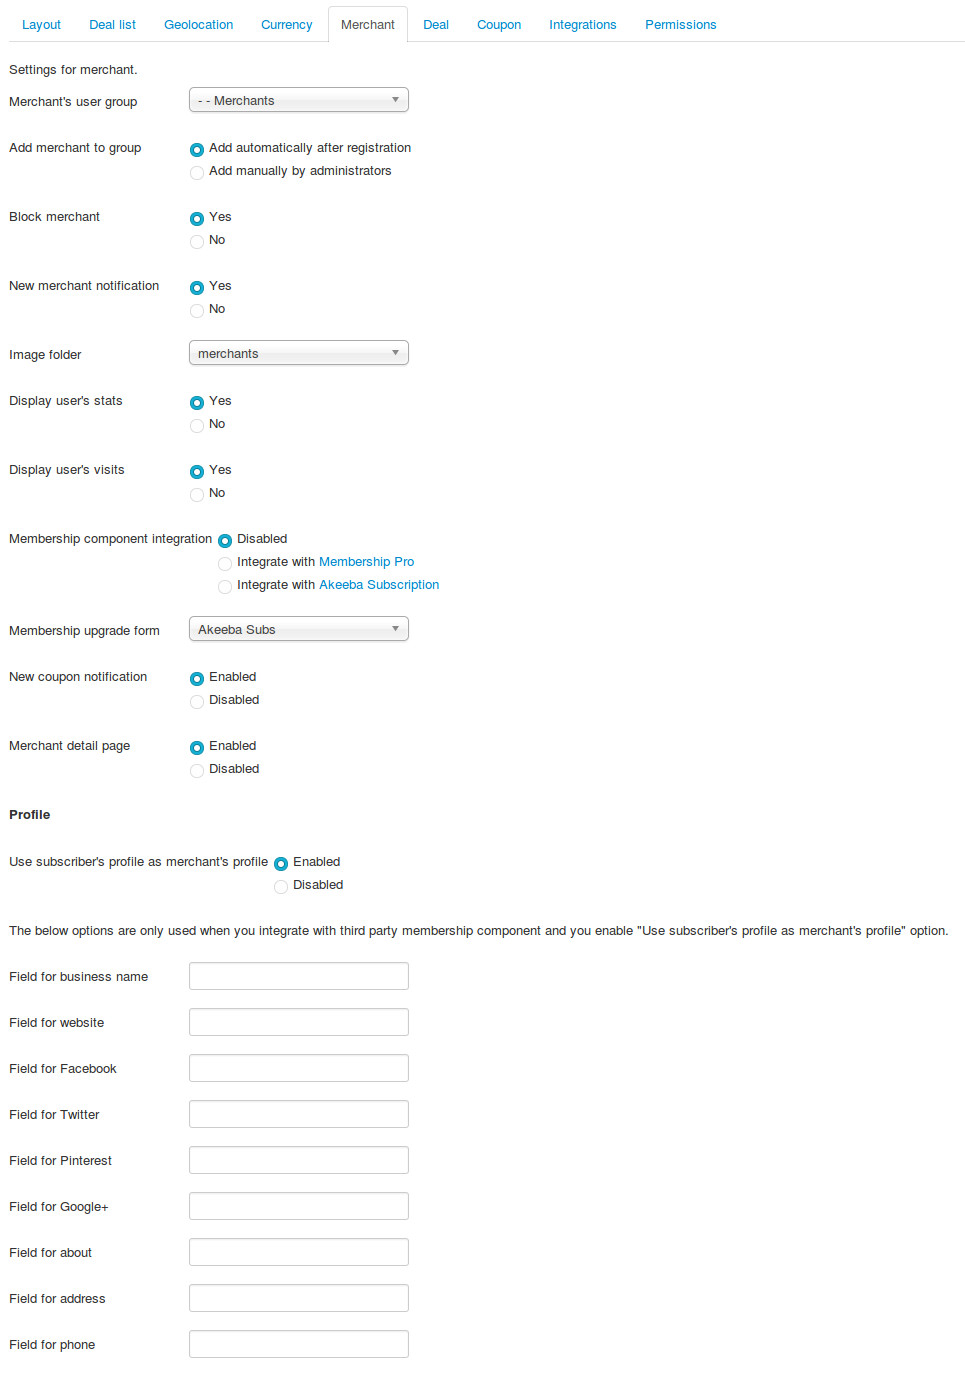
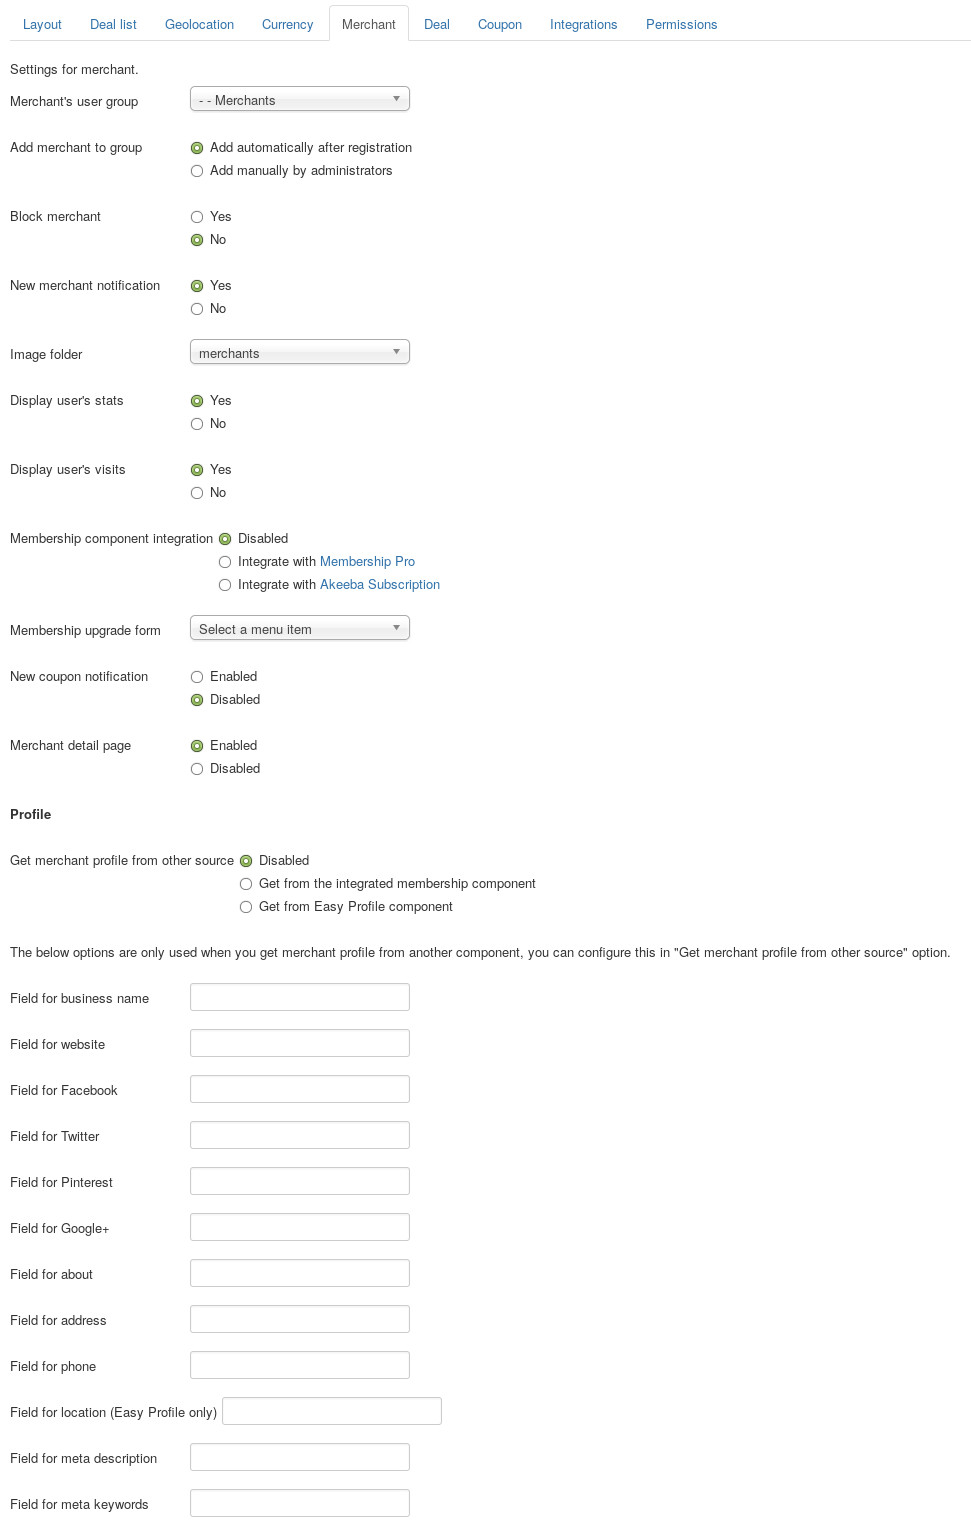
1.10.0

diff --git a/conf.py b/conf.py
@@ -44,16 +44,16 @@ master_doc = 'index'
 
 # General information about the project.
 project = u'CM Live Deal'
-copyright = u'2014-2015, CMExtension'
+copyright = u'2014-2016, CMExtension'
 
 # The version info for the project you're documenting, acts as replacement for
 # |version| and |release|, also used in various other places throughout the
 # built documents.
 #
 # The short X.Y version.
-version = '1.9.0'
+version = '1.10.0'
 # The full version, including alpha/beta/rc tags.
-release = '1.9.0-stable'
+release = '1.10.0-stable'
 
 # The language for content autogenerated by Sphinx. Refer to documentation
 # for a list of supported languages.

diff --git a/pages/configuration.rst b/pages/configuration.rst
@@ -84,6 +84,7 @@ Layout
 * **Map's default location**: The default location of Google Maps when the map is displayed, used in both front-end and back-end. You can click on the map or move the marker to the location you want.
 * **Date format**: Date format that is used in front-end.
 * **Time format**: Time format that is used in front-end.
+* **Google Maps API key**: If Google requires an API key to use Google Maps, you create a **Browser key** and enter it here. You can find more info about getting an API key `here <https://developers.google.com/maps/documentation/javascript/get-api-key>`_.
 
 Deal list
 ^^^^^^^^^
@@ -147,7 +148,14 @@ Merchant
 * **Membership upgrade form**: The menu item for upgrading membership. The link to this menu item is displayed in merchant's deal management page when merchant reaches his/her limit of created deal quantity. This option is only used if membership integration is enabled.
 * **New coupon notification**: Send email to merchant when there is new coupon captured.
 * **Merchant detail page**: Enable merchant detail page where merchant info and merchant's deal list are displayed.
-* **Use subscriber's profile as merchant's profile**: Enable copying subscriber's profile from the membership component to CM Live Deal's merchant profile after merchant subscribes his/her membership, so merchant only enter his/her info once. Please see :ref:`ref-membership` section for more information.
+* **Get merchant profile from other source**:
+
+  * *Get from the integrated membership component*: Enable copying subscriber's profile from the membership component to CM Live Deal's merchant profile after merchant subscribes his/her membership, so merchant only enter his/her info once. Please see :ref:`ref-membership` section for more information.
+  * *Get from Easy Profile component*: Merchant profile is retrieved from Easy Profile component directly. If you enable this, you don't need to use CM Live Deal's merchant profile plugin any more, merchant edit his profile in Easy Profile component.
+
+If you get merchant profile from another component, you enter the aliases of the fields in that component into the fields at the bottom of the page.
+
+Field for location is only supported for Easy Profile because in Easy Profile we can create a Google Maps field which we can use to select a location.
 
 .. _ref-configuration-deal:
 

diff --git a/pages/overview.rst b/pages/overview.rst
@@ -30,6 +30,7 @@ For merchants:
 * Know if user is a return customer.
 * Upload photos of their stores, products,... to promote for their businesses.
 * Integrate with membership component, currently only support Membership Pro and Akeeba Subscription. Limit how many deals merchant can create, how many days merchant's deals are available on the site.
+* Integrate with Easy Profile: get merchant profile from Easy Profile.
 
 For users:
 
